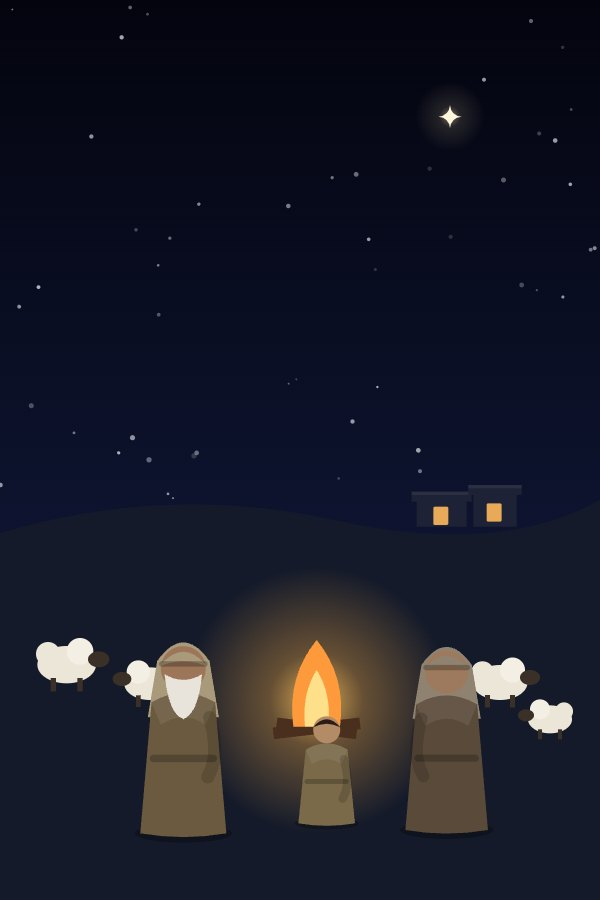
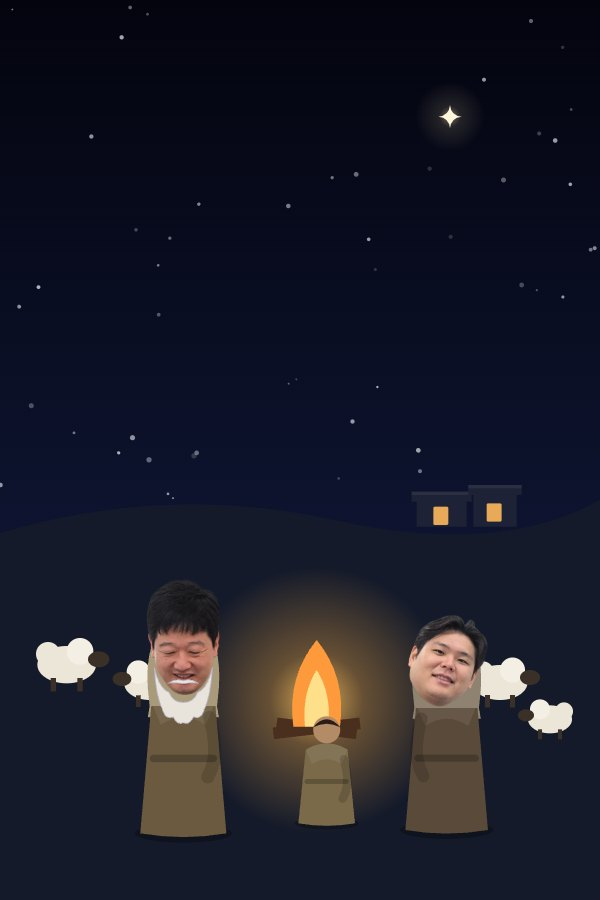
고등부 판: 선생님 24명 얼굴과 배역

Changed region(s): [[0.66, 0.6844, 0.81, 0.8089], [0.24, 0.6844, 0.39, 0.8089]]

diff --git a/story/cast.js b/story/cast.js
@@ -1,22 +1,60 @@
-/* 출연 선생님: 인물 그림에 우리 선생님 얼굴을 넣는 곳 (선택)
-   비워 두면 인물은 그림 그대로 나옵니다.
-
-   넣는 법
-   1) 선생님 얼굴을 배경 없이 오린 PNG(누끼)를 준비합니다.
-   2) img/faces/t01.webp, t02.webp … 로 저장합니다. 얼굴 폭이 120px쯤 되게 줄여 주세요.
-   3) 아래 FACES에 사진마다 이름·크기·얼굴 한가운데 좌표(cx, cy)를 적습니다.
-   4) CAST_LIST에서 배역마다 선생님 번호(t01…)를 고릅니다.
-      '이웃@2'처럼 @숫자를 붙이면 그 장(章)에서만 그 선생님이 나옵니다.
-   배역 이름: 사가랴, 엘리사벳, 요셉, 마리아, 할아버지, 목자, 천사, 천사@2, 천사@4,
-     제사장, 젊은 제사장, 꼬마, 이웃@1, 이웃@2, 이웃2@2, 이웃@4, 이웃2@4, 여관 주인, 군인, 사람들,
-     친척 아저씨, 친척 아주머니, 친척 청년, 친척 아가씨
-
-   예)
-   window.FACES = { t01: { name: '홍길동', w: 150, h: 186, cx: 75, cy: 120 } };
-   window.CAST_LIST = [{ key: '사가랴', t: 't01', role: '사가랴', note: '1장 · 늙은 제사장' }];
-*/
-window.FACES = {};
-window.CAST_LIST = [];
+/* 출연 선생님: 얼굴 사진(img/faces/tNN.webp)과 배역
+   배역을 바꾸려면 아래 CAST에서 선생님 번호(t01~t24)만 바꾸면 됩니다.
+   '이웃@2'처럼 @숫자를 붙이면 그 장(章)에서만 그 선생님이 나옵니다. */
+window.FACES = {
+  t01: { name: '성유정', w: 180, h: 246, cx: 103.2, cy: 157.9 },
+  t02: { name: '한주안', w: 154, h: 183, cx: 80.8, cy: 121.2 },
+  t03: { name: '김나연', w: 200, h: 240, cx: 63.6, cy: 144.5 },
+  t04: { name: '김승규', w: 156, h: 179, cx: 75.5, cy: 104.4 },
+  t05: { name: '김유진', w: 139, h: 192, cx: 68.5, cy: 141.1 },
+  t06: { name: '김재연', w: 150, h: 187, cx: 92.8, cy: 125.0 },
+  t07: { name: '김진원', w: 171, h: 203, cx: 118.4, cy: 136.4 },
+  t08: { name: '김진호', w: 151, h: 186, cx: 63.0, cy: 125.4 },
+  t09: { name: '민다은', w: 198, h: 224, cx: 117.3, cy: 111.7 },
+  t10: { name: '박예찬', w: 143, h: 194, cx: 74.8, cy: 150.0 },
+  t11: { name: '박찬하', w: 133, h: 196, cx: 69.9, cy: 137.5 },
+  t12: { name: '안하영', w: 179, h: 181, cx: 106.7, cy: 105.2 },
+  t13: { name: '유성욱', w: 136, h: 194, cx: 64.2, cy: 143.4 },
+  t14: { name: '윤현종', w: 140, h: 178, cx: 82.7, cy: 121.2 },
+  t15: { name: '이경민', w: 138, h: 203, cx: 71.7, cy: 142.2 },
+  t16: { name: '이수영', w: 165, h: 186, cx: 130.9, cy: 108.9 },
+  t17: { name: '이승원', w: 140, h: 218, cx: 70.7, cy: 161.8 },
+  t18: { name: '이정관', w: 129, h: 190, cx: 64.6, cy: 134.4 },
+  t19: { name: '전관우', w: 124, h: 175, cx: 58.0, cy: 124.4 },
+  t20: { name: '정신영', w: 140, h: 207, cx: 66.4, cy: 165.2 },
+  t21: { name: '조형준', w: 157, h: 179, cx: 59.4, cy: 106.3 },
+  t22: { name: '최승렬', w: 146, h: 190, cx: 68.1, cy: 131.5 },
+  t23: { name: '최정은', w: 145, h: 168, cx: 103.6, cy: 104.6 },
+  t24: { name: '황보예원', w: 209, h: 237, cx: 116.3, cy: 123.1 },
+};
+// 배역 → 선생님. role은 출연진 화면에 보이는 이름
+window.CAST_LIST = [
+  { key: '사가랴', t: 't13', role: '사가랴', note: '1장 · 늙은 제사장' },
+  { key: '엘리사벳', t: 't23', role: '엘리사벳', note: '1·3장 · 사가랴의 아내' },
+  { key: '요셉', t: 't14', role: '요셉', note: '2장 · 나사렛의 목수' },
+  { key: '마리아', t: 't05', role: '마리아', note: '3장 · 나사렛의 처녀' },
+  { key: '할아버지', t: 't17', role: '목자 할아버지', note: '4장 · 들판의 늙은 목자' },
+  { key: '목자', t: 't04', role: '목자 아저씨', note: '4장 · 함께 밤을 지키는 목자' },
+  { key: '천사', t: 't21', role: '천사 가브리엘', note: '1·3장 · 사가랴와 마리아에게' },
+  { key: '천사@2', t: 't01', role: '꿈속의 천사', note: '2장 · 요셉의 꿈에' },
+  { key: '천사@4', t: 't02', role: '들판의 천사', note: '4장 · 목자들에게' },
+  { key: '제사장', t: 't06', role: '제사장', note: '1장 · 제비를 뽑는 제사장' },
+  { key: '젊은 제사장', t: 't11', role: '젊은 제사장', note: '1장 · 처음 성전에 온 제사장' },
+  { key: '꼬마', t: 't10', role: '동네 꼬마', note: '1장 · 성전이 궁금한 아이' },
+  { key: '이웃@1', t: 't16', role: '이웃 아주머니', note: '1장 · 소곤소곤' },
+  { key: '이웃@2', t: 't09', role: '우물가 아주머니', note: '2장 · 나사렛 우물가' },
+  { key: '이웃2@2', t: 't07', role: '수군대는 아저씨', note: '2장 · 나사렛 우물가' },
+  { key: '이웃@4', t: 't12', role: '베들레헴 아주머니', note: '4장 · 마을방' },
+  { key: '이웃2@4', t: 't18', role: '베들레헴 아저씨', note: '4장 · 마을방' },
+  { key: '여관 주인', t: 't08', role: '여관 주인', note: '4장 · 방이 없어요!' },
+  { key: '군인', t: 't22', role: '로마 군인', note: '4장 · 호적 줄 담당' },
+  { key: '사람들', t: 't20', role: '지친 나그네', note: '4장 · 호적하러 온 사람' },
+  { key: '친척 아저씨', t: 't19', role: '친척 아저씨', note: '3장 · 요한의 이름 짓는 날' },
+  { key: '친척 아주머니', t: 't24', role: '친척 아주머니', note: '3장 · 요한의 이름 짓는 날' },
+  { key: '친척 청년', t: 't15', role: '친척 청년', note: '3장 · 요한의 이름 짓는 날' },
+  { key: '친척 아가씨', t: 't03', role: '친척 아가씨', note: '3장 · 요한의 이름 짓는 날' }
+];
 window.CAST = {};
 CAST_LIST.forEach(c => { CAST[c.key] = c.t; });
-window.HOST = []; // 4장 들판의 천군(둘레 천사들)
+// 들판의 천군(4장): 가운데 천사 말고 둘레 천사들
+window.HOST = ['t21', 't01', 't03', 't20'];
